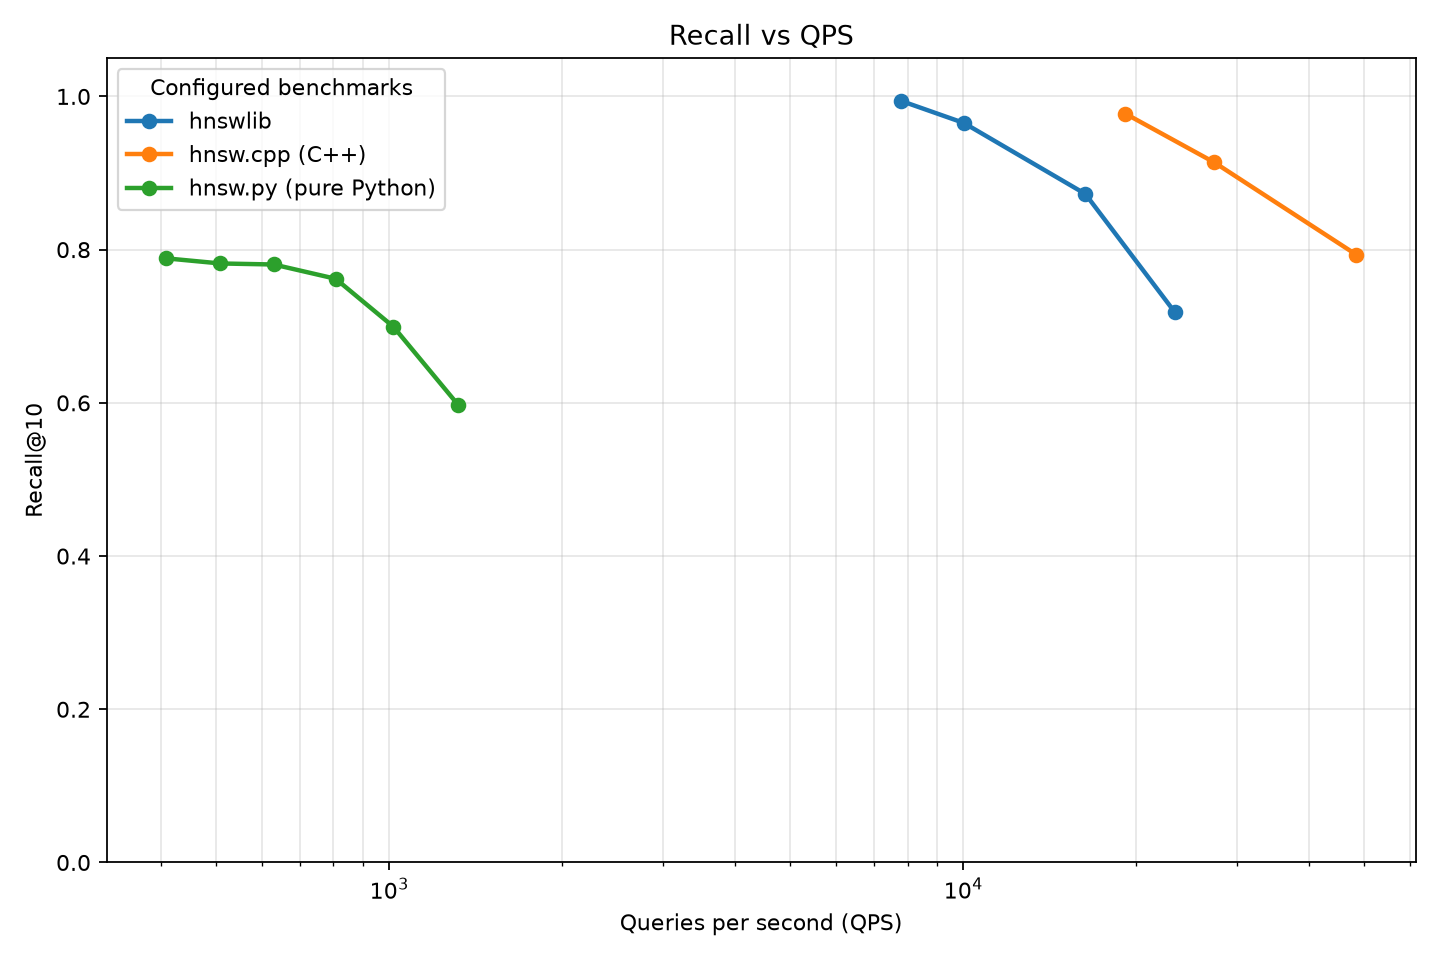
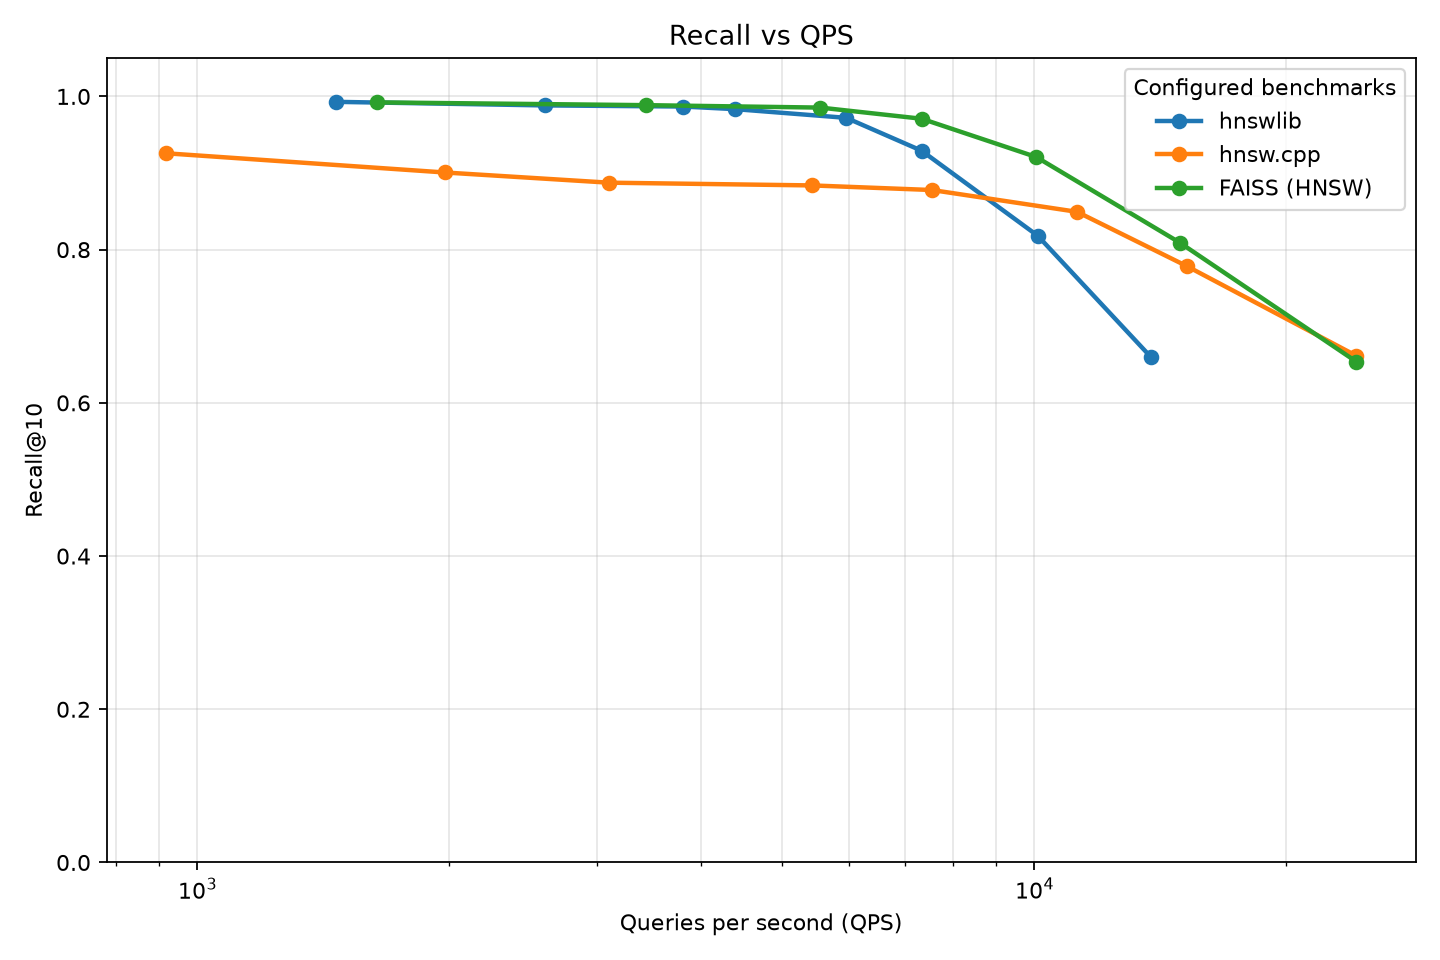
feat: add FAISS control

diff --git a/scripts/bench/bench/systems/faiss.py b/scripts/bench/bench/systems/faiss.py
@@ -1,0 +1,106 @@
+from __future__ import annotations
+
+import time
+from dataclasses import dataclass
+from typing import Any, Mapping
+
+import faiss  # ty: ignore[import-not-found]
+import numpy as np
+
+from ..interface import BenchmarkSystem
+
+
+@dataclass
+class _Index:
+    index: Any
+    normalize: bool
+
+
+def _normalize(x: np.ndarray) -> np.ndarray:
+    norms = np.linalg.norm(x, axis=1, keepdims=True)
+    return np.ascontiguousarray(x / np.maximum(norms, 1e-30), dtype=np.float32)
+
+
+def _metric(space: str) -> int:
+    if space in {"cosine", "ip"}:
+        return int(faiss.METRIC_INNER_PRODUCT)
+    if space == "l2":
+        return int(faiss.METRIC_L2)
+    raise ValueError(f"Unsupported metric '{space}'")
+
+
+def _build(train: np.ndarray, params: Mapping[str, Any]) -> tuple[Any, float]:
+    space = str(params.get("space", "cosine"))
+    normalize = space == "cosine"
+
+    index = faiss.IndexHNSWFlat(
+        int(train.shape[1]),
+        int(params.get("m", 16)),
+        _metric(space),
+    )
+    index.hnsw.efConstruction = int(params.get("ef_construction", 200))
+    index.hnsw.efSearch = int(params.get("ef", 50))
+
+    vectors = _normalize(train) if normalize else np.ascontiguousarray(
+        train, dtype=np.float32
+    )
+
+    started = time.perf_counter()
+    index.add(vectors)
+    build_seconds = time.perf_counter() - started
+
+    return _Index(index=index, normalize=normalize), build_seconds
+
+
+def _set_query_params(handle: _Index, params: Mapping[str, Any]) -> None:
+    if "ef" in params:
+        handle.index.hnsw.efSearch = int(params["ef"])
+
+
+def _search_batch(
+    handle: _Index, queries: np.ndarray, k: int, _threads: int
+) -> np.ndarray:
+    vectors = (
+        _normalize(queries)
+        if handle.normalize
+        else np.ascontiguousarray(queries, dtype=np.float32)
+    )
+    _, labels = handle.index.search(vectors, int(k))
+    return labels
+
+
+def _search_one(handle: _Index, query: np.ndarray, k: int) -> np.ndarray:
+    vector = query.reshape(1, -1)
+    vector = (
+        _normalize(vector)
+        if handle.normalize
+        else np.ascontiguousarray(vector, dtype=np.float32)
+    )
+    _, labels = handle.index.search(vector, int(k))
+    return labels[0]
+
+
+def _index_size_bytes(handle: _Index) -> int | None:
+    try:
+        return int(faiss.serialize_index(handle.index).nbytes)
+    except Exception:
+        return None
+
+
+FAISS = BenchmarkSystem(
+    name="faiss",
+    label="FAISS (HNSW)",
+    build=_build,
+    set_query_params=_set_query_params,
+    search_batch=_search_batch,
+    search_one=_search_one,
+    index_size_bytes=_index_size_bytes,
+    default_params={
+        "space": "cosine",
+        "m": 16,
+        "ef_construction": 200,
+        "query_mode": "sequential",
+        "query_threads": 1,
+        "sweep": {"ef": [10, 20, 40, 80, 160, 320]},
+    },
+)

diff --git a/scripts/bench/bench/systems/__init__.py b/scripts/bench/bench/systems/__init__.py
@@ -1,9 +1,9 @@
 from __future__ import annotations
 
+from .faiss import FAISS
 from .hnsw_cpp import HNSW_CPP
-from .hnsw_py import HNSW_PY
 from .hnswlib import HNSWLIB
 
 # Add new system instances here. They are registered with the config manager
 # automatically and included by presets that use ``benchmarks = "all"``.
-SYSTEMS = (HNSWLIB, HNSW_CPP, HNSW_PY)
+SYSTEMS = (HNSWLIB, HNSW_CPP, FAISS)

diff --git a/scripts/bench/bench/systems/hnsw_cpp.py b/scripts/bench/bench/systems/hnsw_cpp.py
@@ -65,7 +65,7 @@ def _index_size_bytes(index: Any) -> int | None:
 
 HNSW_CPP = BenchmarkSystem(
     name="hnsw-cpp",
-    label="hnsw.cpp (C++)",
+    label="hnsw.cpp",
     build=_build,
     set_query_params=_set_query_params,
     search_batch=_search_batch,

diff --git a/README.md b/README.md
@@ -37,6 +37,7 @@ presets, and benchmark-system API.
 | ------------------------- | ------------------------------------------ |
 | `scripts/bench/`          | Python benchmark harness (uv project)      |
 | `vendors/hnswlib/`        | Baseline HNSW implementation               |
+| `vendors/faiss/`          | FAISS (HNSW) control implementation        |
 | `vendors/ann-benchmarks/` | Reference dataset and algorithm collection |
 | `apps/`                   | In-repo algorithm implementations          |
 
@@ -45,6 +46,7 @@ presets, and benchmark-system API.
 | Algorithm | Status   | Notes                                                    |
 | --------- | -------- | -------------------------------------------------------- |
 | hnswlib   | Included | Baseline; HNSW with cosine, L2, and inner-product spaces |
+| faiss     | Included | Control; FAISS HNSW (`IndexHNSWFlat`)                    |
 | hnsw.py   | Included | Pure-Python HNSW; cosine, L2, and inner-product spaces   |
 | hnsw.cpp  | Included | C++ port of hnsw.py; cosine, L2, and inner-product spaces |
 

diff --git a/scripts/bench/README.md b/scripts/bench/README.md
@@ -91,7 +91,7 @@ report, metrics, or CLI are needed.
 - Synthetic clustered Gaussian vectors are generated once per run.
 - Exact ground truth is computed in chunked numpy using the same metric.
 - Each configured benchmark builds its own index, then sweeps its query
-  parameters (`ef` for hnswlib, hnsw.cpp, and hnsw.py).
+  parameters (`ef` for hnswlib, FAISS, hnsw.cpp, and hnsw.py).
 - `ef` sweeps auto-extend by doubling until recall reaches
   `metrics.target_recall` (0.97 in both presets) or `metrics.max_ef` (512 by
   default). Seed values from the system's sweep are still used, and missing
